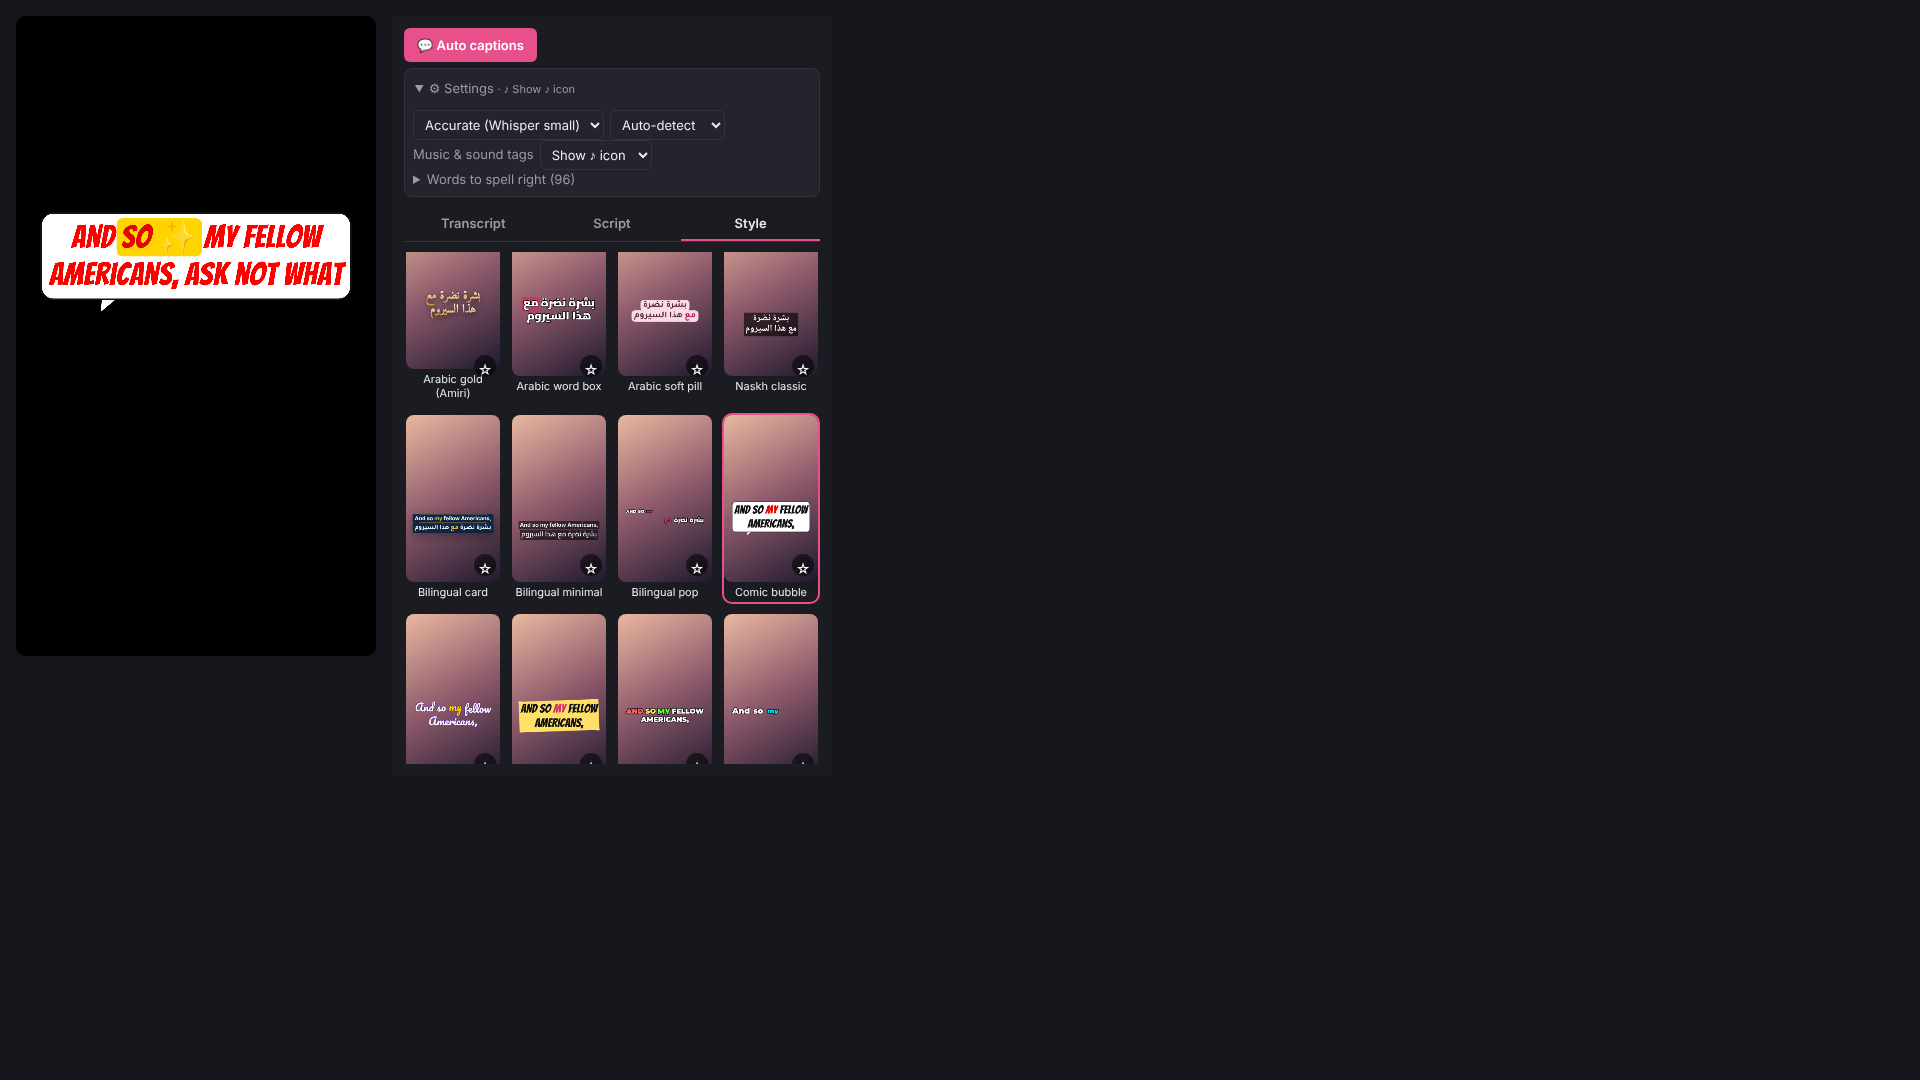
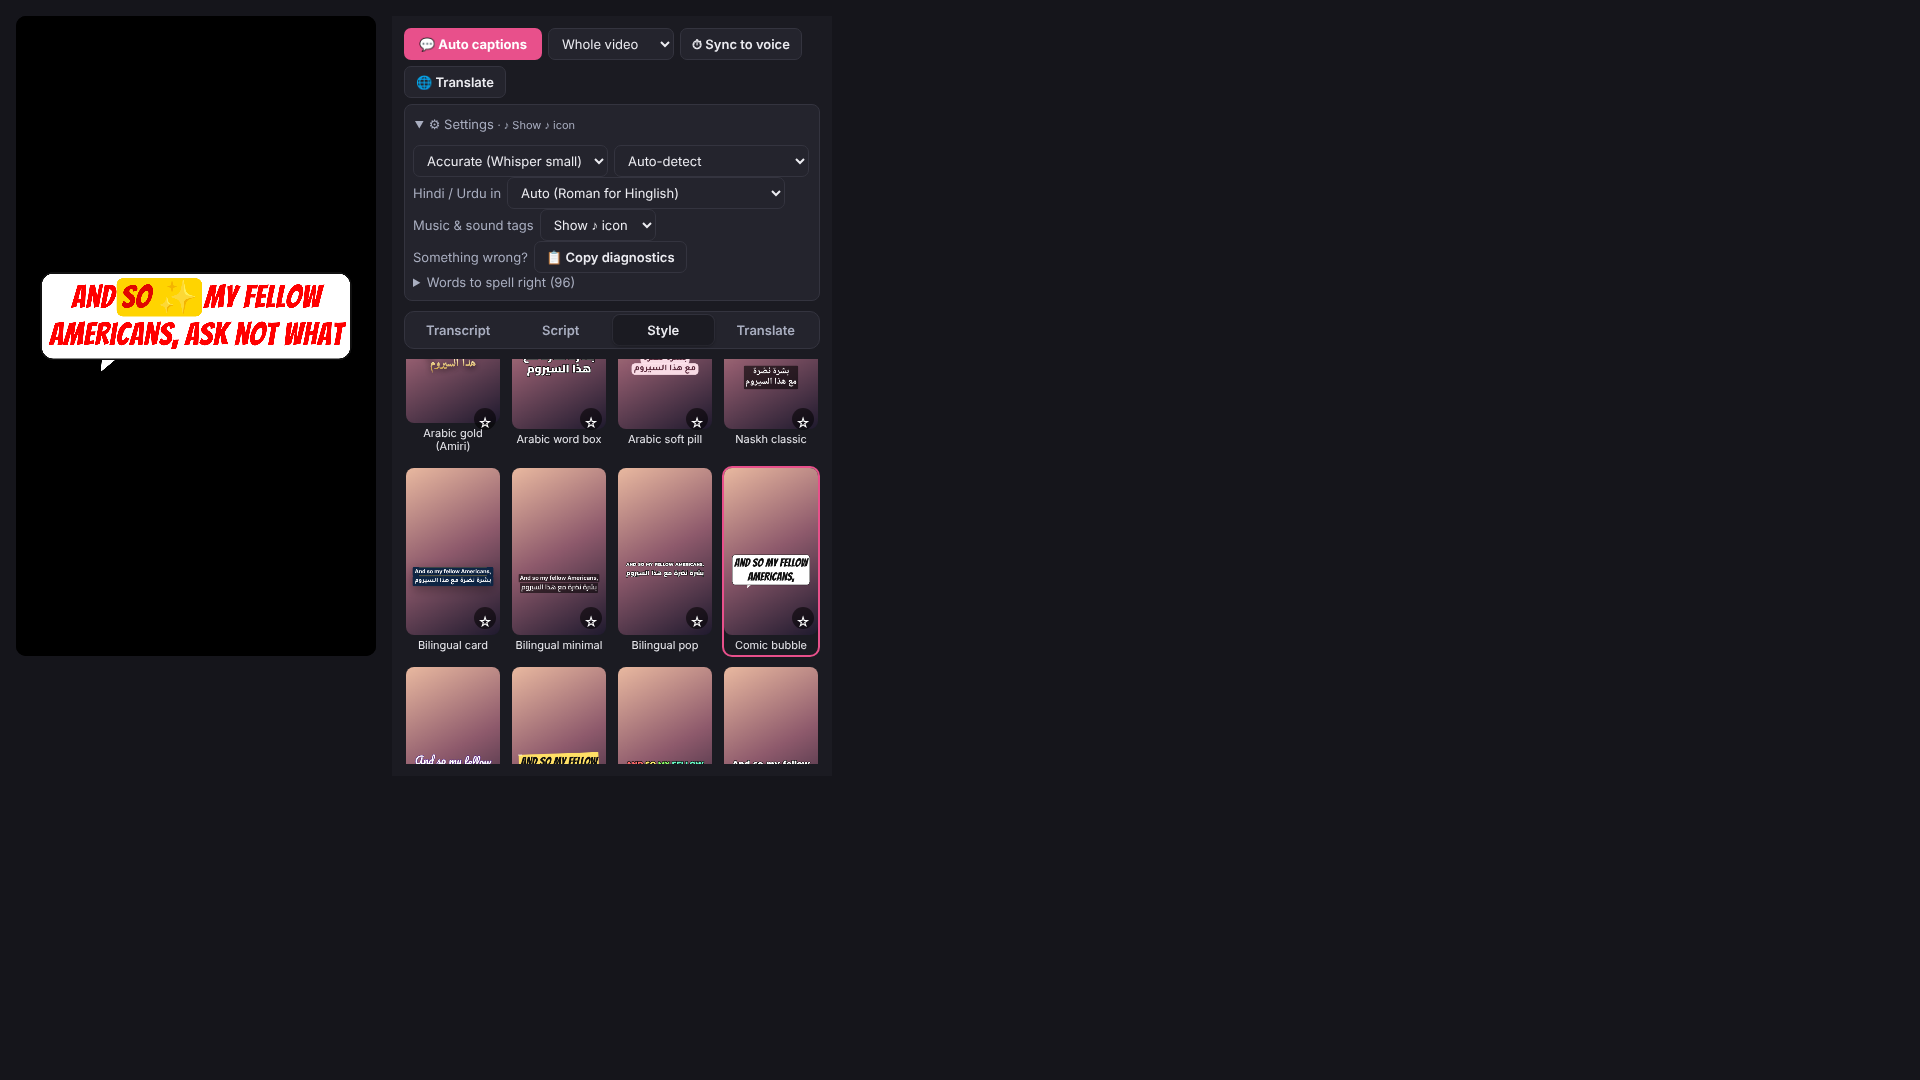
KBB Studio v1.4.5: a Script edit syncs to the voice by itself
Claude-Session: https://claude.ai/code/session_01YFPqRcei6ARXFZpX54gQ57

Changed region(s): [[0.0, 0.0306, 0.4375, 0.7333], [0.3438, 0.0917, 0.375, 0.1222]]

diff --git a/studio/reel-studio/app/captions/script-view.js b/studio/reel-studio/app/captions/script-view.js
@@ -184,6 +184,28 @@ export function mountScript(el, ctx, apply) {
     const v = para.textContent.replace(/\s+/g, ' ').trim();
     if (v === (para.dataset.orig || '').replace(/\s+/g, ' ').trim()) return;
     apply(editParagraphCmd(cap(), +para.dataset.a, +para.dataset.b, v));
+    resync();
+  }
+
+  // the owner, 23 Nov: "one simple button also to sync the script and the system should auto sync instantly without
+  // touching word by word". An edited paragraph only spreads the old timing over the new words; the voice is listened
+  // to again straight after (sync/index.js syncWords: only the times move, its own undo step). Several edits in a
+  // row are synced once.
+  let syncT = 0, syncing = false;
+  function resync() {
+    clearTimeout(syncT);
+    syncT = setTimeout(async () => {
+      if (syncing) { resync(); return; }
+      syncing = true;
+      try {
+        const S = await import('../sync/index.js');
+        const ed = typeof window !== 'undefined' && window.kbbEditor ? window.kbbEditor.context() : ctx;
+        ctx.toast?.('Syncing your script to the voice…', 'info');
+        const r = await S.syncWords(ed);
+        ctx.toast?.(`Script synced to the voice: ${r.words} words${r.model ? '' : ' (sound only — the ⏱ Sync tab downloads the model for word-perfect timing)'}`, 'ok');
+      } catch (e) { if (!e?.denied) ctx.toast?.('Sync: ' + (e.message || e) + ' — press ⏱ Sync to voice to try again', 'warn'); }
+      finally { syncing = false; }
+    }, 700);
   }
 
   render();

diff --git a/studio/reel-studio/app/core/config.js b/studio/reel-studio/app/core/config.js
@@ -3,7 +3,7 @@
 // The engine and the launcher carry the same string in engine/main.go (appName) and the .command file name.
 
 export const APP_NAME = 'KBB Studio';
-export const APP_VERSION = '1.4.4'; // also names the zip (tools/package-mac.sh): bump it for every zip sent to the owner
+export const APP_VERSION = '1.4.5'; // also names the zip (tools/package-mac.sh): bump it for every zip sent to the owner
 
 /** Workspaces the studio seeds on first run (the owner, 16 Nov). brandRef = folder under brands/ (R3's kits): the kit's
  *  colours, fonts, logo, industries, caption style and favourite recipes WIN (app/editor/kits.js); the values here are
